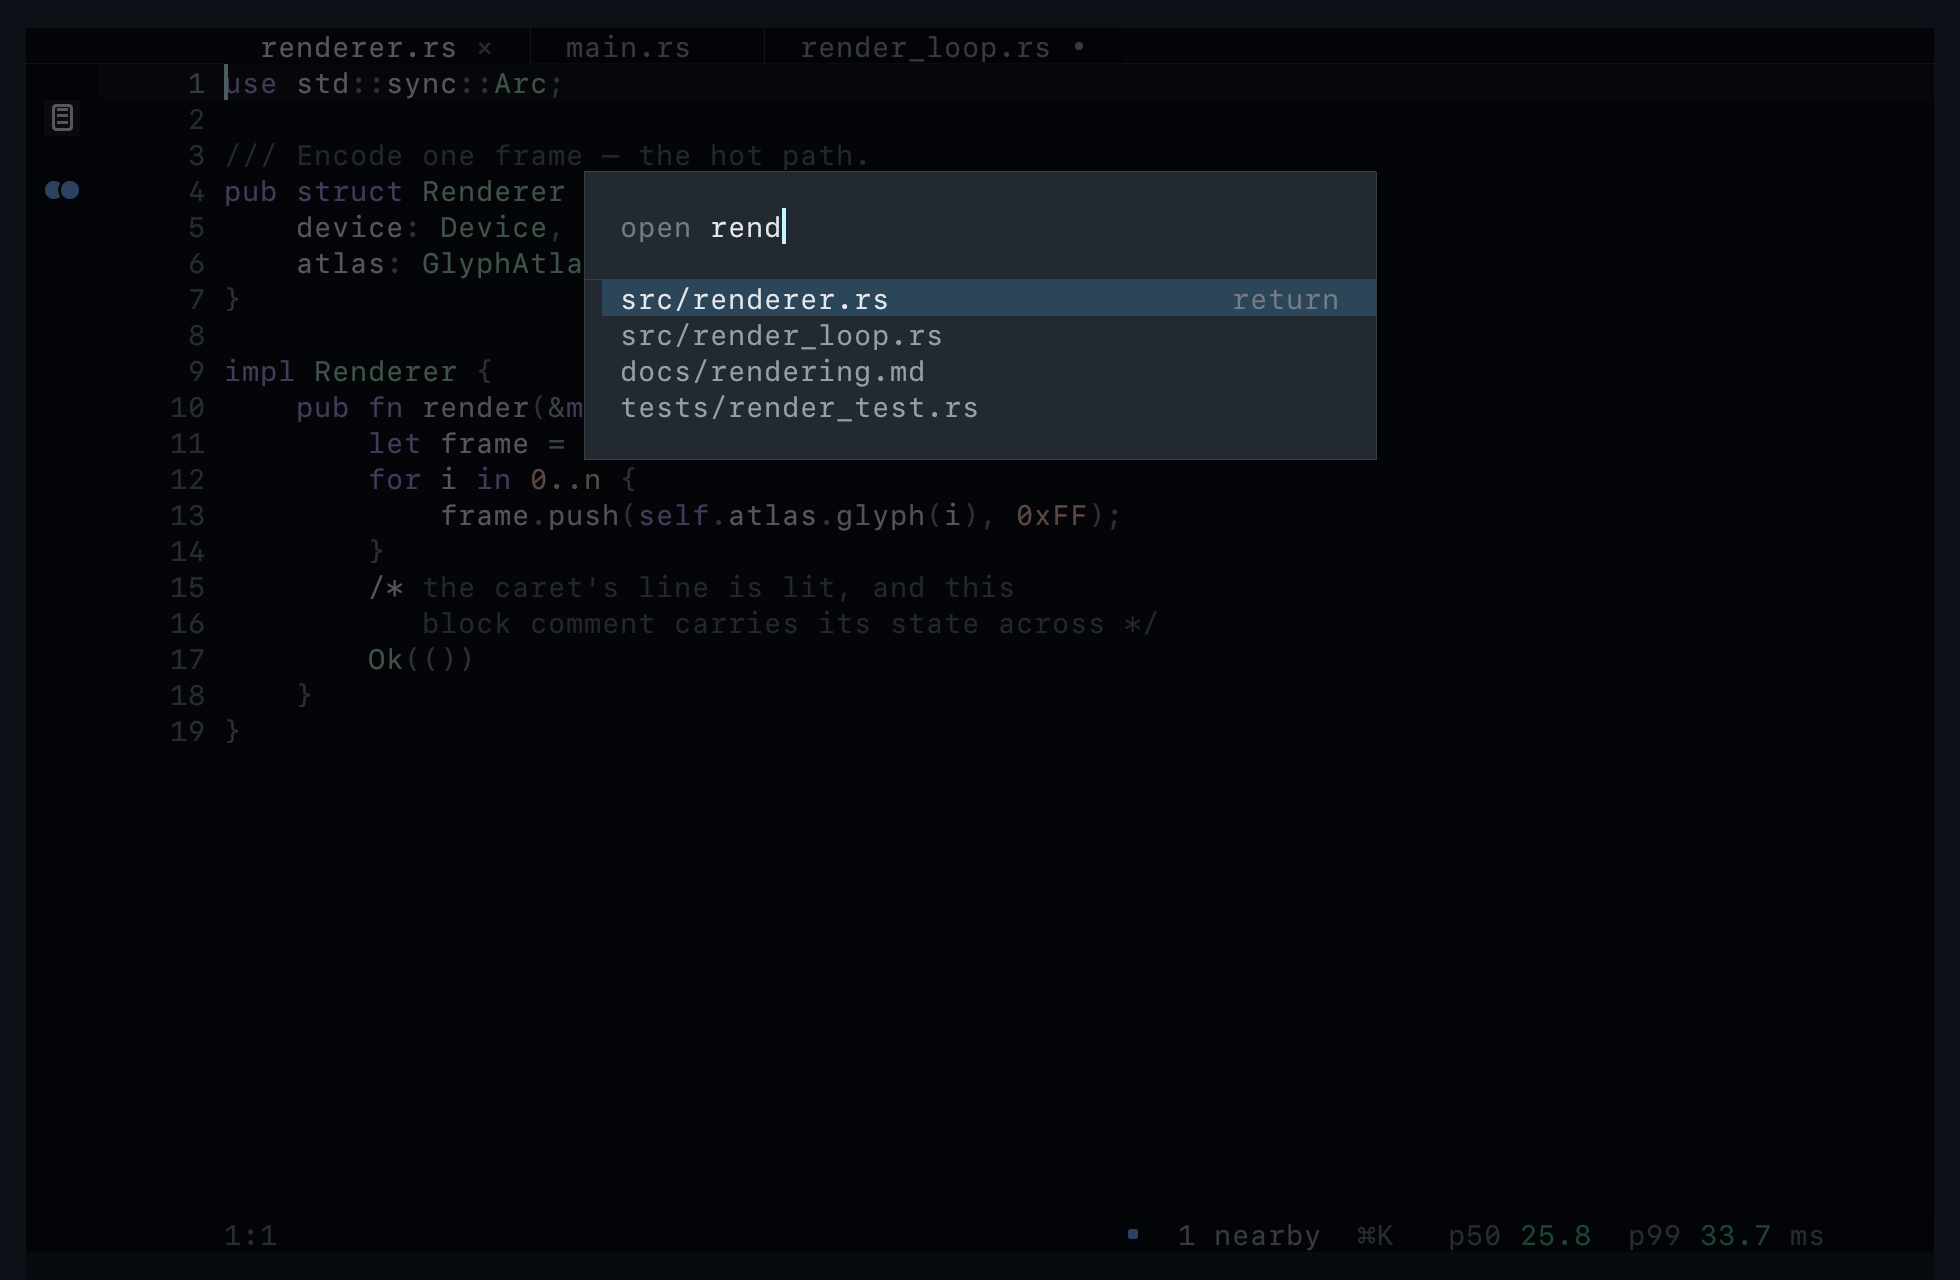
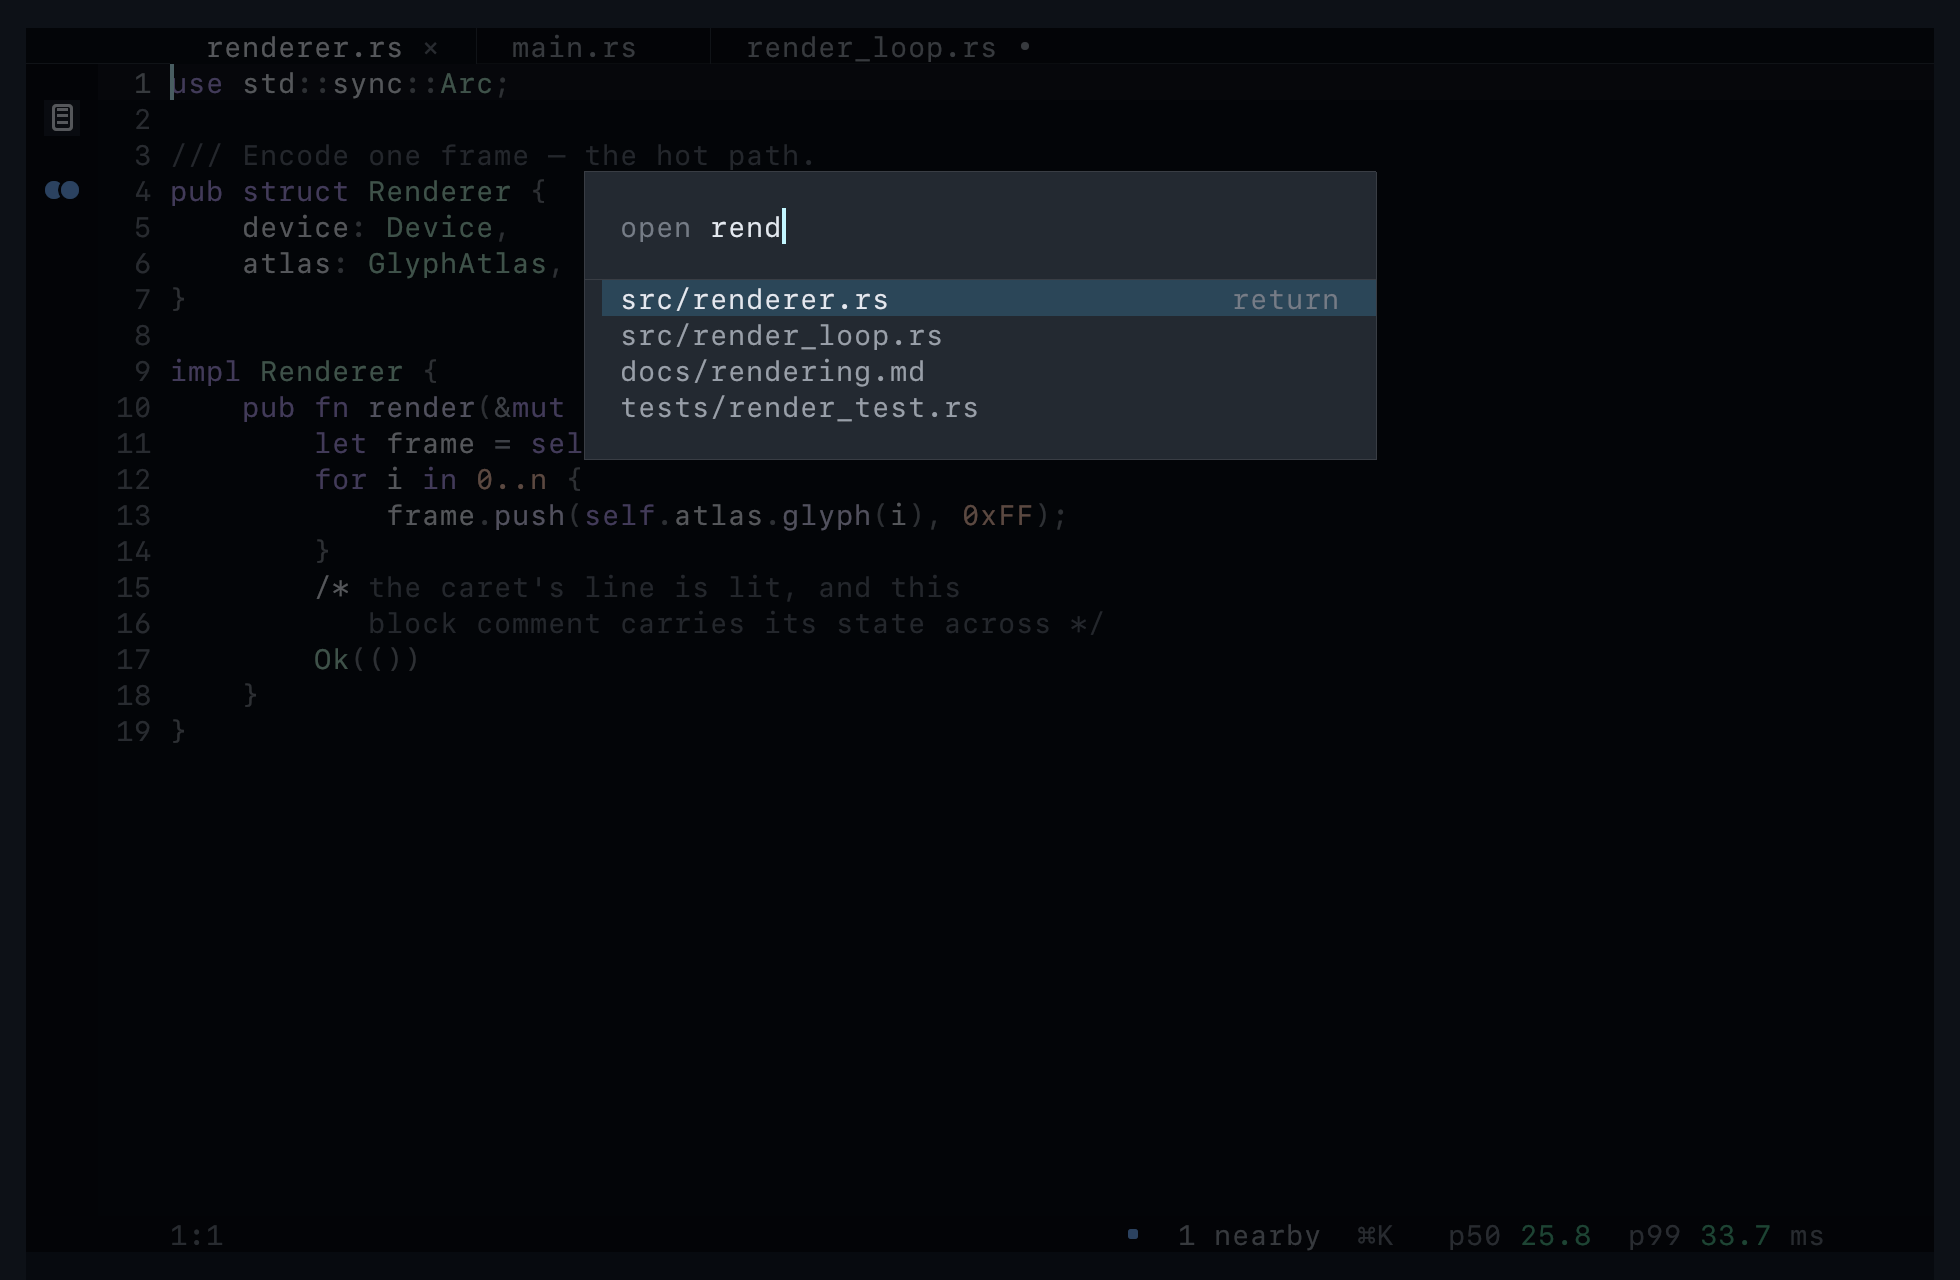
Gutter: as many digits as the document has, and no more
The layout pass pinned the line-number field at five cells so `codeCol`
would be constant and the tab strip could be nailed to it. That fixed a
real bug — the alignment broke past 99 lines — by overcorrecting: it bought
one alignment and charged three columns of permanent indent for it on every
ordinary file. The gutter is on screen always; the alignment is noticed
once.

The field is now `max(2, digits)` of the open document. Two constraints
still fight: the tab strip must clear the traffic lights, which own row 0
out to column 6, so it cannot start before column 8; and the gutter must be
as wide as the document needs. They cannot always share an edge, so the tab
wins its own fixed column — a tab strip that slid sideways on every file
switch would be intolerable, while a code column two cells further right in
a 30,000-line file is invisible. 5.3's "one alignment grid" is amended in
the code where it is decided: the tab belongs to the pane, the gutter and
the code belong to the document.

Sized to the DOCUMENT and not to the visible rows, deliberately. Viewport
sizing is tighter again, but the width would change as you scrolled past
line 99 and the whole code column would slide sideways underneath you
mid-scroll — a much worse thing to feel than three unused columns are to
look at.

Also: scripts/gate.sh now pre-flights with `beam --verify-launch`, which
exits the moment a frame is presented. A screen-aborted attempt used to
[…]

diff --git a/Sources/Beam/Scene.swift b/Sources/Beam/Scene.swift
@@ -324,28 +324,43 @@ enum Scene {
         /// rows, which is the entire reason the rail is where the navigation
         /// lives (PLAN.md §5.4).
         let railCols = 4
-        /// Width of the line-number field, in cells. Five digits covers every
-        /// file up to 100,000 lines, which is the number §5.4 already promised;
-        /// sizing the field to the promise rather than to the open document is
-        /// what makes `codeCol` — and therefore `tabCol` — a constant.
-        static let gutterCols = 5
+        /// Width of the line-number field, in cells: **as many digits as this
+        /// document actually has**, never fewer than two.
+        ///
+        /// It was briefly pinned at five — enough for any file under 100,000
+        /// lines — so that `codeCol` would be constant and the tab strip could
+        /// be nailed to it. That bought one alignment and paid three columns of
+        /// permanent indent for it on every ordinary file, which is the wrong
+        /// way round: the gutter is on screen always and the alignment is
+        /// noticed once.
+        ///
+        /// Sized to the **document** rather than to the visible rows on
+        /// purpose. Viewport-sizing is tighter still, but the width would then
+        /// change as you scroll past line 99 or line 999 — and the whole code
+        /// column would slide sideways underneath you mid-scroll, which is a
+        /// far worse thing to feel than three unused columns are to look at.
+        static let minGutterCols = 2
         /// Column the last digit of a line number sits on.
         let gutterRight: Int
         let codeCol: Int
         let textCols: Int
-        /// Where the tab strip starts — **the same column the code starts on**.
+        /// Where the tab strip starts. **Fixed**, and not derived from the
+        /// gutter.
         ///
-        /// It used to be a fixed 8 while `codeCol` grew with the line count, so
-        /// the two agreed only for files under 100 lines and §5.3's "one
-        /// alignment grid" was false on every real document. Now the gutter is
-        /// a fixed-width *field* (see `gutterCols`) instead of a fixed *column*,
-        /// so `codeCol` is a constant for anything under 100,000 lines and the
-        /// tab strip can be nailed to it: one left edge for the tab, the line
-        /// number's field and the first character of every line. Tabs still
-        /// never slide when you switch files, which is what the old fixed
-        /// column was protecting — it was just protecting it in the way that
-        /// broke the alignment.
-        var tabCol: Int { codeCol }
+        /// Two constraints fight here and only one can win. The tab strip must
+        /// clear the traffic lights, which occupy row 0 out to column 6, so it
+        /// cannot start before column 8. And the gutter must be as wide as the
+        /// document needs and no wider, so `codeCol` moves from file to file.
+        /// They therefore cannot always share an edge.
+        ///
+        /// The tab wins its own column, because a tab strip that slid sideways
+        /// every time you switched documents would be intolerable, while a code
+        /// column that sits two cells further right in a 30,000-line file than
+        /// in a 30-line one is invisible. §5.3's "one alignment grid" is
+        /// amended accordingly: **the tab belongs to the pane, the gutter and
+        /// the code belong to the document.** They coincide for any file under
+        /// a hundred lines and diverge, quietly, above it.
+        var tabCol: Int { railCols + 4 }
         /// First row a rail icon may occupy. One row below the document's
         /// first line, so the rail does not start hard against the tab strip's
         /// divider.
@@ -359,13 +374,10 @@ enum Scene {
             var digits = 1
             var n = max(1, lineCount)
             while n >= 10 { n /= 10; digits += 1 }
-            // **A field, not a column.** The gutter is `gutterCols` wide with
-            // one cell of air on each side of it, so the code column is a
-            // constant for every file anyone actually opens and only a file
-            // over 100,000 lines moves it. The old rule grew the code column
-            // from 100 lines up, which is why the tab strip and the code
-            // stopped sharing a left edge on essentially every real document.
-            let field = max(Self.gutterCols, digits)
+            // As many digits as the document has, and no more. The two cells
+            // of air after the field are what separate a line number from the
+            // code it indexes.
+            let field = max(Self.minGutterCols, digits)
             let code = railCols + field + 2
             codeCol = code
             gutterRight = code - 2

diff --git a/PLAN.md b/PLAN.md
@@ -811,6 +811,76 @@ opening the palette all enter the same hybrid render loop and are accounted like
 typing. `draw_calls_per_frame` stays at budget 2: the rail and the tabs are
 chrome-plane instances and earn no third draw.
 
+### What the design passes found (2026-08-30)
+
+Change 1 was explored by **three agents working in parallel** — one critiquing
+the rendered screenshots without touching code, two building in isolated git
+worktrees on separate lanes (chrome/layout, and typography/colour) so their
+edits could not collide. Everything below came out of that and is recorded
+because most of it is not taste.
+
+**Four defects that were shipping, none of them visible as "a bug".**
+
+- **The window was never centred.** `cols` and `rows` truncate, and the grid
+  origin was the constant `(cellWidth, cellHeight/2)` — so the entire truncation
+  remainder landed on the right and bottom edges: measured **18 px left against
+  34 right, 18 top against 38 bottom**. In a window that is nothing but content,
+  every edge inherits that. It is the diffuse "floats up and to the left" that no
+  single element explains, and it survived two visual sessions because nothing
+  was *wrong*, only unbalanced.
+- **§5.3's "one alignment grid" was false on every real file.** `tabCol` was
+  pinned at 8 while `codeCol` grew with the line count; they agreed only under
+  100 lines, which is exactly the size of the sample document every screenshot
+  used. The gutter is now a fixed five-cell *field* rather than a fixed column.
+  A seeded state that hides the failure it was built to catch is worse than no
+  seeded state, and the sample document is now the wrong size on purpose.
+- **The caret's palette entry was out of gamut.** It declared L 0.930 / C 0.075 /
+  H 225; `#B1F3FF` clips the blue channel and actually renders at **H 210**. The
+  design table documented a colour the GPU has never drawn. Every OKLCH entry in
+  that table is now checked for clipping, because a design system whose numbers
+  are aspirational is a design system that lies.
+- **`.faint` (3.2:1) was below AA on seven jobs**, including the gutter and
+  inactive tab labels — so an inactive **tab** was dimmer than a code
+  **comment**. One slot had accumulated every "secondary" role in the product.
+
+**The tonal inversion, and why it needed no new colour.** The active tab was a
+*lighter* fill on the ground, which is the silhouette of a selected row in a
+list. Modern editors invert it: the frame recedes and the front tab *is* the
+page. Beam's ground was already its darkest ink, so the recess is `scrim` at
+partial coverage and **the active tab is the absence of it** — literally the
+same pixels as the document one row below, with the ground never named twice.
+Two hairlines were then deleted rather than kept, because the recess already
+drew those boundaries.
+
+**One curve, three implementations, two desyncs in one day.** The caret's blink
+is evaluated in the shader, mirrored on the CPU as a change detector, and
+inverted again to predict when to wake the render loop. The prediction used the
+moments a ramp *ends* as if they were where one *begins* (caught by a bench that
+samples the prediction against the curve — 326 violations); and the shader and
+the CPU disagreed about the gain, so the CPU slept through stretches where the
+alpha was still climbing. Both are the same mistake. The gain, floor and period
+are now single constants the shader interpolates and the CPU reads.
+
+**A process note worth more than any of the above.** Git worktrees branch from a
+**commit**, so an agent given one sees nothing uncommitted. The first pair were
+quietly iterating on the *pre-Phase-1* codebase — spotted only because a build
+log listed a file that had been deleted hours earlier. Parallel exploration on
+uncommitted work is exploration of the wrong thing; commit first, always.
+
+**What the critique protected, which matters as much as what it changed.** Three
+things were named as already good and not to be traded away in a redesign: the
+gamma-correct pipeline and whole-pixel grid; the deliberate separation between
+the syntax band and the peer-identity band, which is why a collaborator's caret
+can never read as a keyword (most editors get this wrong by giving collaborators
+theme colours); and the caret itself. A design pass that only knows what to
+change will regress the things nobody thought to defend.
+
+**One trade declined.** Bleeding the recessed chrome to the window's edge needs a
+per-row ground fill beneath the document — about 3,500 extra instances every
+frame, on the keystroke path, roughly doubling a 0.34 ms commit — to reclaim a
+26 px inset that reads as window padding. In this product that is the wrong way
+round, and it is recorded here so it is not re-proposed as an oversight.
+
 ### Change 2 — Version control as documents, not as a panel
 
 The design rule that keeps this from becoming an IDE: **a diff is a document.**
